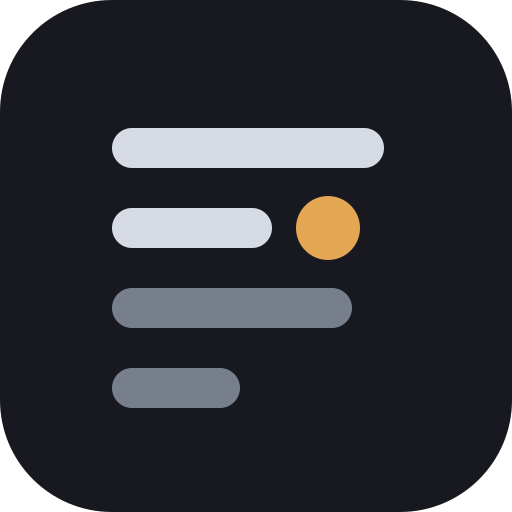
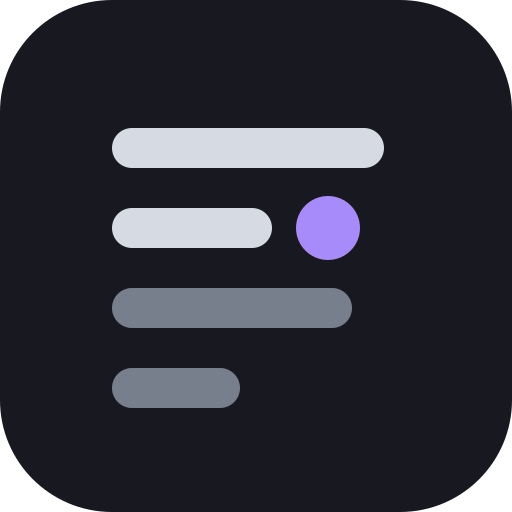
feat: purple dot in the tenx mark, like the wordmark's x
The favicon, the web app's icons, the desktop notification icon and the
terminal's first-run screen now match the iOS app icon.

Changed region(s): [[0.5625, 0.375, 0.7188, 0.5312]]

diff --git a/src/tui/column.rs b/src/tui/column.rs
@@ -3901,12 +3901,13 @@ fn subagent_line(a: &Subagent, width: usize, selected: bool) -> Line<'static> {
 }
 
 /// The first-run screen: the mark (`docs/logo/tenx-mark.svg`) drawn in text
-/// with the same colours — two bright bars, the amber dot, two muted bars —
-/// next to the wordmark and the one thing there is to do.
+/// with the same colours — two bright bars, the purple dot (the colour of the
+/// wordmark's `x`), two muted bars — next to the wordmark and the one thing
+/// there is to do.
 fn empty_state_lines() -> Vec<Line<'static>> {
     let bright = Style::default().fg(palette::TEXT.color());
     let muted = Style::default().fg(palette::MUTED.color());
-    let dot = Style::default().fg(palette::WARN.color());
+    let dot = Style::default().fg(palette::ACCENT.color());
     let word = Style::default().fg(palette::BRIGHT.color()).add_modifier(Modifier::BOLD);
     let x = Style::default().fg(palette::ACCENT.color()).add_modifier(Modifier::BOLD);
     vec![
